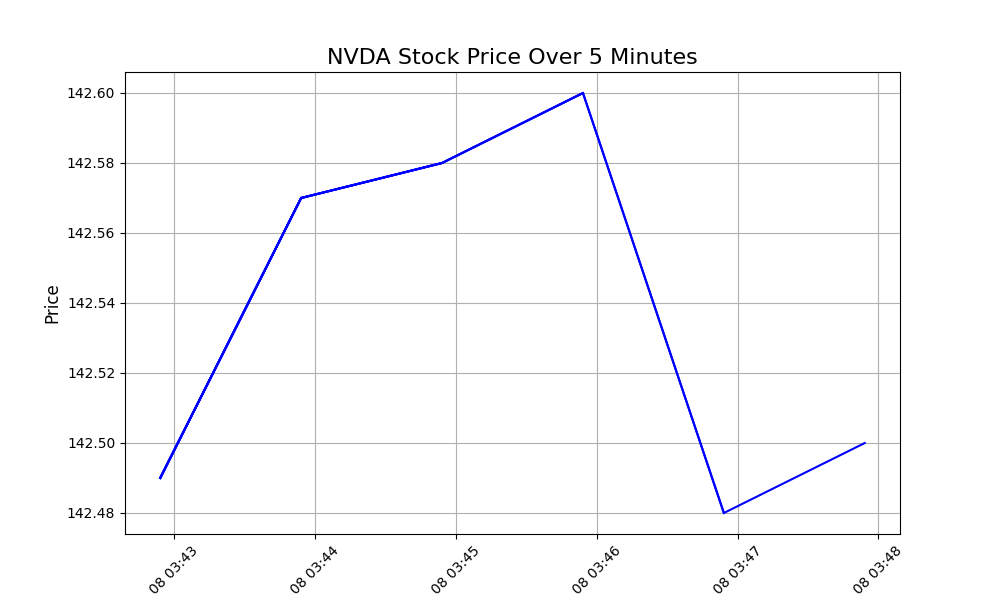
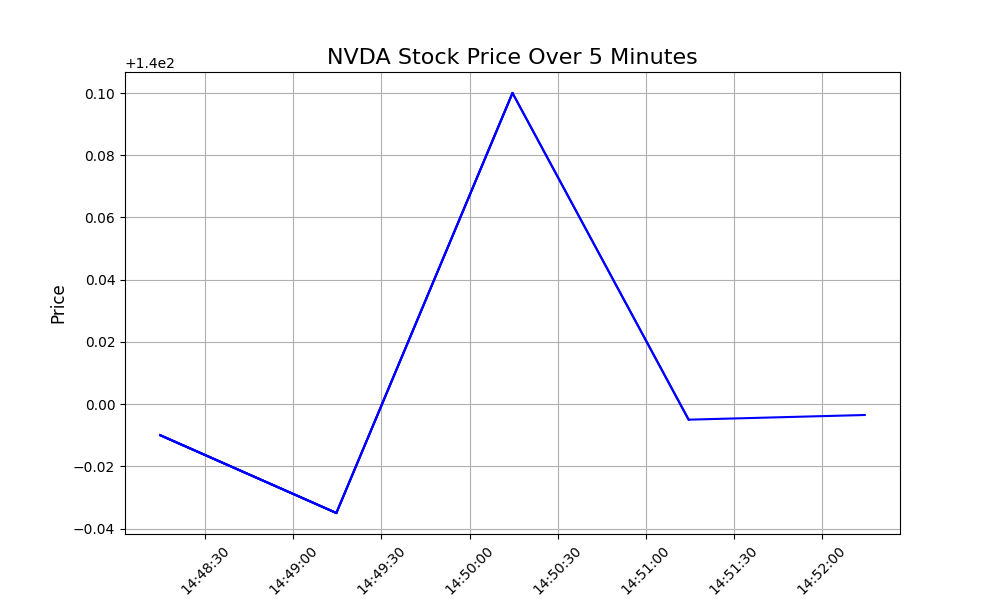
Implemented a Fibonacci Retracement technique on historical data - need to fix scaling

diff --git a/trading.py b/trading.py
@@ -67,33 +67,76 @@ class Trading_Algorithm:
         plt.close()
 
     # Returns a list of the top up movers of the day 
-    def find_top_movers(self, direction='None'):
+    def find_top_movers(self):
         top_movers_list = rrm.get_top_movers()
         return_list = []
         for stock in top_movers_list:
             return_list.append(stock.get('symbol'))
         return return_list
 
+    # Implementation should be changed (layout of df is wrong) 
+    def find_top_movers_as_data_frame(self):
+        top_movers_list = rrm.get_top_movers()
+        top_movers_df = pd.DataFrame(top_movers_list)
+        top_movers_df = top_movers_df.T # Reorganizes 
+        # self.top_movers_df['ticker'] = self.top_movers_df.index # "Ticker" replaces index label 
+        # self.top_movers_df = self.top_movers_df.reset_index(drop=True) # Removes indexes - indexes = tickers
+        # cols = self.top_movers_df.columns.drop(['symbol']) # Classifies the columns 
+        # self.top_movers_df[cols] = self.top_movers_df[cols].apply(pd.to_numeric, errors='coerce') # Edits columns to be of type float64 
+        return top_movers_df
+
     # Returns a list of the top s&p500 up movers of the day 
     def find_top_movers_sp500(self):
         return rrm.get_top_movers_sp500(direction='up')
-
     
+    def Fibonacci_Retracements(self, ticker):
+        data = rrs.get_stock_historicals(ticker, interval='10minute', span='day') # data is a list of dictionaries
+        high = float(data[0]['high_price'])
+        low = float(data[0]['low_price'])
+        for index in data:
+            if float(index['high_price']) > high:
+                high = float(index['high_price'])
+            if float(index['low_price']) < low:
+                low = float(index['low_price'])
+        diff = high - low
+        levels = {
+            '100%': high,
+            '61.8%' : high - .618 * diff,
+            '50%' : high - .5 * diff,
+            '38.2%' : high - .382 * diff,
+            '23.6%' : high - .236 * diff,
+            '0%' : low
+        }
+
+        plt.figure(figsize=(10,6))
+        for index in data:
+            plt.plot(float(index['close_price']), label=f'{ticker} Price', color='blue')
+        for level in levels.values():
+            plt.axhline(level, linestyle='--', label=f'{level:.2f}')
+
+        plt.title(f'{ticker} Fibonacci Retracements')
+        plt.xlabel('Time')
+        plt.ylabel('Price')
+        # plt.legend()
+        plt.grid(True)
+        plt.savefig('results/fibonacci_retracements.png')
+        
+
+        
+
+
+####################### TESTING ################################
 
 # Create the Trading_Algorithm Object 
 algorithm = Trading_Algorithm()
-algorithm.build_portfolio()
-algorithm.create_stock_list_based_on_df()
-algorithm.create_stock_graph('NVDA')
-# print(algorithm.find_top_movers())
-# print(algorithm.find_top_movers_sp500)
+
+# algorithm.build_portfolio()
+# algorithm.create_stock_list_based_on_df()
+# algorithm.create_stock_graph('NVDA')
+algorithm.Fibonacci_Retracements('NVDA')
 
 
-# Make a list of the prices of the stocks
-# while(True):
-#     latest_price = rrs.get_latest_price(stock_list)
-#     print(latest_price)
-#     time.sleep(5)
+# algorithm.find_top_movers_as_data_frame()
 
 
 

diff --git a/backtesting.py b/backtesting.py
@@ -1,2 +1,48 @@
 import trading
 import pyalgotrade
+import time
+import pandas as pd
+import numpy as np
+import matplotlib as mp
+import matplotlib.pyplot as plt
+from robin_stocks import *
+import robin_stocks.robinhood as rr
+import robin_stocks.robinhood.stocks as rrs
+import robin_stocks.robinhood.markets as rrm
+
+def Fibonacci_Retracements_On_Historical_Data(ticker):
+    data = rrs.get_stock_historicals(ticker, interval='10minute', span='day') # data is a list of dictionaries
+    high = float(data[0]['high_price'])
+    low = float(data[0]['low_price'])
+    for index in data:
+        if float(index['high_price']) > high:
+            high = float(index['high_price'])
+        if float(index['low_price']) < low:
+            low = float(index['low_price'])
+    diff = high - low
+    levels = {
+            '100%': high,
+            '61.8%' : high - .618 * diff,
+            '50%' : high - .5 * diff,
+            '38.2%' : high - .382 * diff,
+            '23.6%' : high - .236 * diff,
+            '0%' : low
+    }
+    plt.figure(figsize=(10,6))
+    count = 0
+    graph = {"time" : [], "price" : []}
+    
+    for index in data:
+        graph['price'].append(float(index['close_price']))
+        graph['time'].append(count * 10)
+        count+=1 
+    plt.plot(graph['time'], graph['price'], label=f'{ticker} Price', color='blue')  
+    for level in levels.values():
+        plt.axhline(level, linestyle='--', label=f'{level:.2f}')
+    plt.title(f'{ticker} Fibonacci Retracements')
+    plt.xlabel('Time')
+    plt.ylabel('Price')
+    plt.grid(True)
+    plt.savefig('results/fibonacci_retracements.png')
+
+Fibonacci_Retracements_On_Historical_Data('NVDA')
